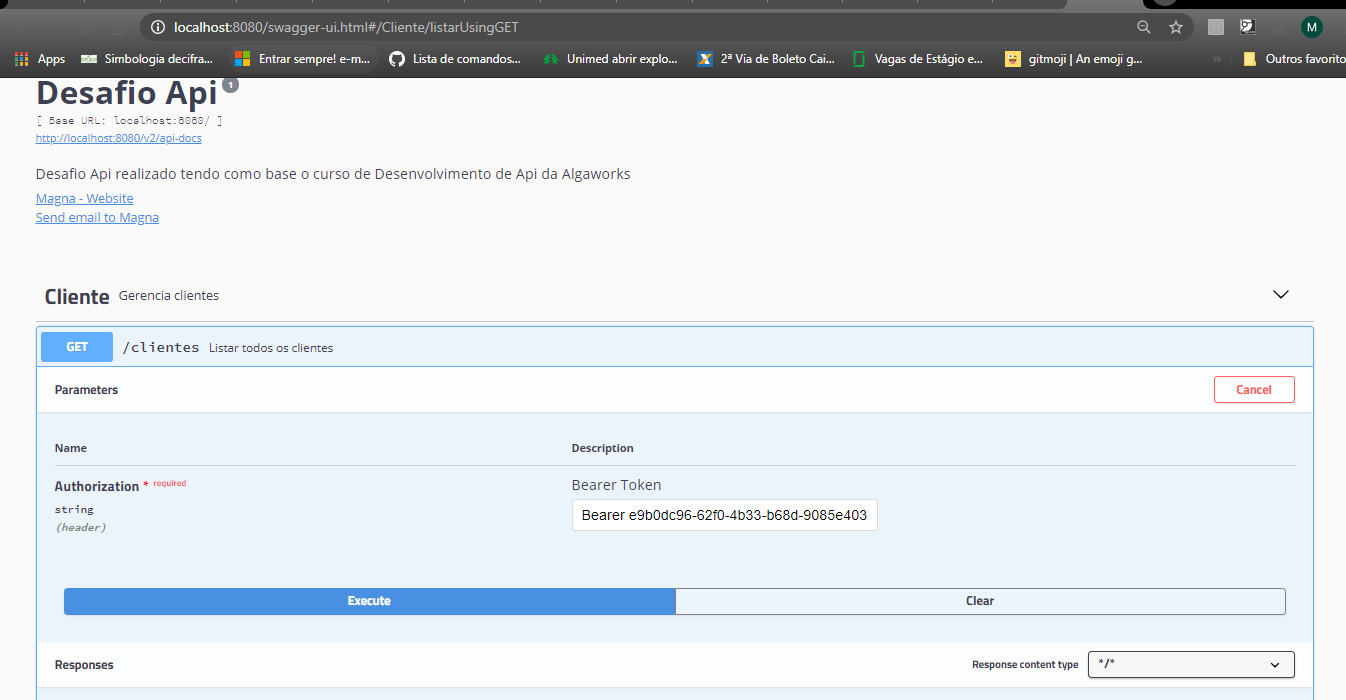
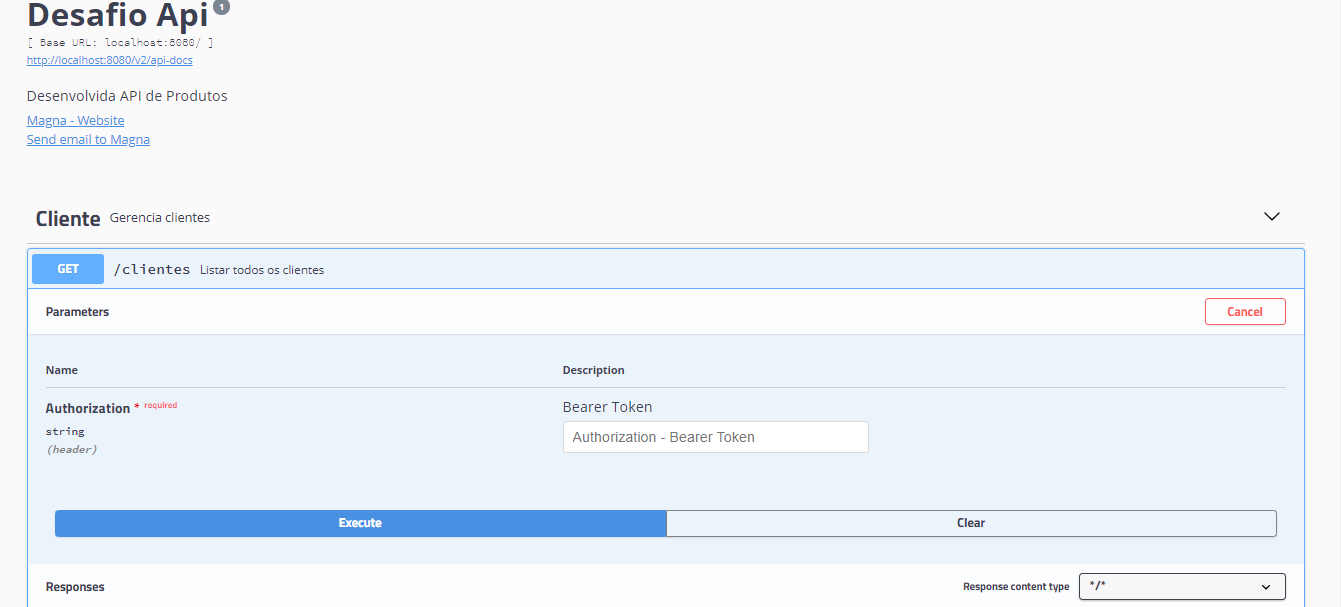
Atualização readme

diff --git a/src/main/java/com/gft/desafio/api/openapi/SpringFoxConfig.java b/src/main/java/com/gft/desafio/api/openapi/SpringFoxConfig.java
@@ -34,7 +34,7 @@ public class SpringFoxConfig implements WebMvcConfigurer{
 	public ApiInfo apiInfo() {
 		return new ApiInfoBuilder()
 				.title("Desafio Api")
-				.description("Desafio Api realizado tendo como base o curso de Desenvolvimento de Api da Algaworks")
+				.description("Desenvolvida API de Produtos")
 				.version("1")
 				.contact(new Contact("Magna", "https://git.gft.com/maoz", "maoz@gft.com"))
 				.build();
